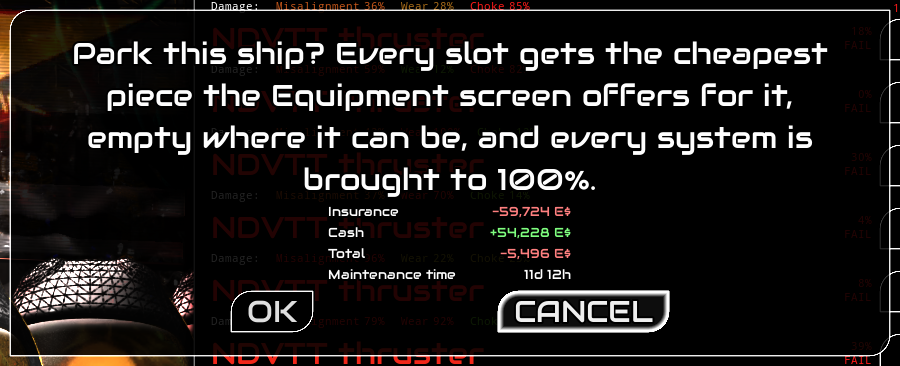
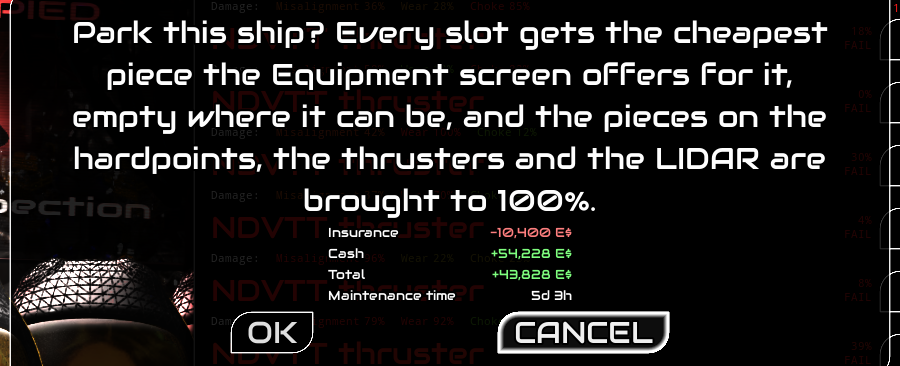
ShipRepairAdvisor 1.0.2: Park repairs only the pieces on the hardpoints, the thrusters and the LIDAR (the members of the Equipment screen's slots, _sraSlotMembers), whose condition sets what a swap trades them in for, and leaves every other system as it is: the other slots (reactor, turbine, MPU, ..

diff --git a/ShipRepairAdvisor/README.md b/ShipRepairAdvisor/README.md
@@ -2,9 +2,9 @@
 
 Adds two buttons to the bottom of the Repairs screen. **Repair** brings every damaged system of the ship up to the
 condition you set, the cheapest way, with a table beside it of what that costs and how long it takes. **Park** readies
-the ship to hold cash: every slot of the Equipment screen gets its cheapest piece, empty where it can be, and every
-system is brought to full condition, after a confirmation of what that costs or brings. Shift+Click on Repair opens its
-settings.
+the ship to hold cash: every slot of the Equipment screen gets its cheapest piece, empty where it can be, and the pieces
+on the hardpoints, the thrusters and the LIDAR are brought to full condition, after a confirmation of what that costs
+or brings. Shift+Click on Repair opens its settings.
 
 ## What it does and why
 - **What:** a row at the bottom of the Repairs screen, under the list of systems: on the right the Repair and Park
@@ -17,7 +17,10 @@ settings.
   be Fixes alone, or some Fixes and then Replace, and the Fixes may stop working before the target (the crew's Repair
   limit, damage beyond repair). And getting a ship ready to hold cash (buying expensive equipment for a ship that stays
   at the station, to sell it back later at its full price) means taking every slot down to its cheapest piece at the
-  Equipment screen and then bringing every system to full condition, since a damaged piece trades in for less.
+  Equipment screen and then bringing the pieces on the hardpoints, the thrusters and the LIDAR to full condition, since
+  a damaged one trades in for less. The other systems are left as they are: the other slots trade in at full price
+  whatever their condition, and the systems on no slot are never traded in, so repairing them would only spend the cash
+  the ship is readied to hold.
 - **Only the game's own buttons.** Both buttons do only what a player can do by hand, faster: they press the Repairs
   screen's own Fix and Replace, and Park also the Equipment screen's own Buy, each only while the game has it enabled.
   So every price, maintenance hour, payment (Fix and Replace from the insurance first, purchases from the cash), Logs
@@ -45,15 +48,18 @@ settings.
      A slot with no piece fitted is left alone. Where the cheapest piece is already fitted but worn at 99.5 % or more,
      short of full condition, which neither Fix nor Replace touches (GAME.md *Repairs*), the slot is bought out and
      back: another piece, then the cheapest again, new.
-  3. **Repairs** to `_SRA_PARK_TARGET` (in `Code.gd`) of every system still below it, as Repair's plan with that
-     target, keeping only ways that get there. The systems of the other slots (the reactor, the turbine, the MPU, …)
-     keep their damage through a purchase, so they are repaired afterwards, at the new piece's prices.
+  3. **Repairs** to `_SRA_PARK_TARGET` (in `Code.gd`) of every piece on a hardpoint, a thruster or the LIDAR still
+     below it, as Repair's plan with that target, keeping only ways that get there. The other systems keep their
+     damage: the other slots (the reactor, the turbine, the MPU, …) trade in at the fitted piece's full price whatever
+     its condition, and keep their damage through a purchase, and the systems on no slot (the HUD, the cabin light, …)
+     are never traded in.
 
   Parking is all or nothing: if the money would fall short at a step the game only allows with the money for it (a
   purchase that costs, a Replace that needs money), the confirmation says how much more is needed, and its OK is
-  disabled. A system that no button can bring to that condition (one on another slot, worn at 99.5 % or more) is named
-  in the confirmation; OK stays enabled, since nothing better can be done by hand. Park is disabled while there is
-  nothing to do, while either button works, and without the Equipment screen.
+  disabled. A piece on a hardpoint, a thruster or the LIDAR that no button can bring to that condition (worn at 99.5 %
+  or more where no other piece can be bought out and back) is named in the confirmation; OK stays enabled, since
+  nothing better can be done by hand. Park is disabled while there is nothing to do, while either button works, and
+  without the Equipment screen.
 - **The confirmation**, in the style of the game's dialogs: the question, then *Insurance*, *Cash* and *Total*, signed
   and coloured as the Fleet screen writes a trade-in (money coming in with a + in its green, going out with a - in its
   red), and the *Maintenance time*; under them, the notes. The figures are worked out on a copy of the ship as the
@@ -111,9 +117,10 @@ settings.
   `reexamine` shows) and the piece fitted. A slot's members are the systems whose script names the slot as its `type`
   (`_sraMembers`: `WeaponSlot.gd`, `ThrusterSlot.gd`, `LIDAR.gd`): the Equipment screen prices them by condition
   (`ship-ctrl.gd` `getSlotValue`) and the purchase clears their damage (`clearDamageInSlot`); the other slots trade in
-  at the fitted item's price and keep their system's damage (GAME.md *Equipment*). Replace and Fix stop at
+  at the fitted item's price and keep their system's damage (GAME.md *Equipment*). So Park repairs only the members of
+  the screen's slots (`_sraSlotMembers`), and leaves every other system as it is. Replace and Fix stop at
   `_SRA_REPLACE_BELOW` (the game's 99.5 %: `isReplaceable`, and `CurrentGame.getRepairLimit`'s cap), so a member worn
-  above it makes its slot an out-and-back (`_sraWornPast`), and another system there is unreachable.
+  above it makes its slot an out-and-back (`_sraWornPast`), or, with no other piece offered, is unreachable.
 - **The purchases** (`_sraParkPurchases`): the item's own `_on_Buy_pressed`, only while its `buttonBuy` is enabled.
   `Upgrades.gd` `buy` fits the piece and builds the player's ship again; Park waits for `CurrentGame`'s
   `playerShipChanged` (counted in `_sraShipChanges`, up to `_SRA_SHIP_WAIT_FRAMES` physics frames), and the rows are
@@ -123,9 +130,9 @@ settings.
   `Shipyard.createShipByConfig` from a copy of the player's config with every slot bought for on the piece it gets and
   its members' damage cleared, in a viewport of its own world on the screen (`_SRA_TRIAL_NODE`, `_SRA_TRIAL_SIZE`,
   never drawn), set up as ShipSaleAdvisor's trial ships are (a dummy, reactor off, in a cutscene; up to
-  `_SRA_TRIAL_FRAMES` frames), then freed (`_sraTrialDone`). From it: the repairs of the systems that keep their damage
-  (priced and judged by a copy of a row's script, out of the tree, told the trial ship), the systems no button
-  reaches, and each out-and-back's second purchase (the cheapest piece's price less what the other piece's systems are
+  `_SRA_TRIAL_FRAMES` frames), then freed (`_sraTrialDone`). From it: the repairs of the members whose slot isn't
+  bought for (priced and judged by a copy of a row's script, out of the tree, told the trial ship), the members no
+  button reaches, and each out-and-back's second purchase (the cheapest piece's price less what the other piece's systems are
   worth new). Park ignores further presses meanwhile (`_sraParkChecking`).
 - **The dialog** (`ParkDialog.gd`), made on first use as a child of the screen, so it takes the station's menu theme: a
   `ConfirmationDialog` as the game's (no title, `popup_centered`, the game's `OK` and `CANCEL`, Cancel focused). The

diff --git a/_tests/README.md b/_tests/README.md
@@ -907,7 +907,7 @@ WeaponMaxPowerSwitch.
   end below zero, and back; a second run reaching the higher target. With a gamepad: the twin (`PAD_BUTTON` while
   `PAD_MODIFIER` is held, from `Badge.gd`) on the highlighted Repair opens the settings, and B closes them with Repair
   highlighted again. Park, on `harness/repairs_park_ship.gd` (a ship built from its config, as the game's, its
-  hardpoint's and thrusters' members with a `type` (`harness/repairs_slot_part.gd`, as the game's), and systems on
+  hardpoint's, thrusters' and LIDAR's members with a `type` (`harness/repairs_slot_part.gd`, as the game's), and systems on
   slots without members; its damage kept in the config by system key; also the trial ship's scene in the `Shipyard`
   stub; RCS_B's systems worth less than its price), beside a stub of the Equipment screen (`harness/repairs_equipment.gd`:
   the game's `updatePricesAndAvailability` and `buy`, building the ship again as the station does and recording each
@@ -916,21 +916,24 @@ WeaponMaxPowerSwitch.
   named by the mod's text, enabled, right of Repair at its height, the badge in Repair, Park as far from the panel's
   frame at the bottom as at the right; the D-pad up from Park to the last row's Replace, right from Repair to Park and
   left back. The confirmation (a laser at 60 % on the hardpoint, RCS_A thrusters with one at 99.7 %, the dearer
-  reactor at 70 %, a HUD at 99.7 % on a slot without members, the cabin at 80 % on no slot, an ammo capacity bought):
+  reactor at 70 %, a HUD at 99.7 % on a slot without members, the cabin at 80 % on no slot, a LIDAR at 99.7 %, the only
+  piece its slot offers, an ammo capacity bought):
   no title, the game's OK and CANCEL, Cancel highlighted; the question with Park's target; the lines' names without
   "cost"; the insurance going out with - and the cash and the total coming in with +, in the Fleet screen's colours;
   the maintenance time in the normal colour; the trial ship given the pieces bought (the other thrusters for the
-  out-and-back) and the members without damage, the rest kept, then gone, the ship and the state untouched; the HUD
-  named, at its condition rounded down to the mod's decimals; OK enabled; the dialog on the screen. Esc (a real key
+  out-and-back) and the members without damage, the rest kept, then gone, the ship and the state untouched; the LIDAR
+  named, at its condition rounded down to the mod's decimals, and not the HUD, which isn't a member; OK enabled; the dialog on the screen. Esc (a real key
   press, with the game's bindings) closes the confirmation only, Park highlighted again, nothing changed; B closes it
   too. OK: both buttons disabled while it works; the hardpoint emptied, the cheapest reactor and ammo capacity, the
   thrusters out and back (the second purchase refunding what the other thrusters' systems are worth), the refunds
-  first, the laser fixed once before its trade-in, the slot not shown left alone; every other system at Park's
-  target, the HUD as it was; the cash, the insurance and the maintenance as the confirmation said; the rows made for the
-  new ship; Park disabled with nothing left to do, and highlighted. Again with a gun at 50 % and the cash below zero: the
-  note of the money missing and OK disabled; Cancel changing nothing; with the money, no insurance spent shown without
-  a sign or colour, the cash and time, then the cash and maintenance as it said, the gun traded in after two Fixes, the
-  cabin at Park's target. The screen hiding closes the confirmation; without the Equipment screen, Park disabled. The
+  first, the laser fixed once before its trade-in, the slot not shown left alone; the thrusters at Park's target, the
+  reactor, the HUD, the cabin and the LIDAR as they were (Park repairs only the slots' members); the cash, the
+  insurance and the maintenance as the confirmation said; the rows made for the new ship; Park disabled with nothing
+  left to do, and highlighted. Again with a gun at 50 %, a thruster and the cabin at 75 % and the cash below zero: the
+  note of the money missing (for the thruster's Replace) and OK disabled; Cancel changing nothing; with the money, no
+  insurance spent shown without a sign or colour, the cash and time, then the cash and maintenance as it said, the gun
+  traded in after two Fixes, the thruster replaced to Park's target, the cabin as it was. The screen hiding closes the
+  confirmation; without the Equipment screen, Park disabled. The
   control checks (the game's rows, nothing of the mod at the bottom of the screen, the list's margin as the scene sets
   it) run on the game's own script.
 - `callout` (`suites/callout.gd`): HUDs from `harness/callout_hud.tscn` (the game's `Hud.gd`, its `dialogLineNode` the

diff --git a/_wiki/ShipRepairAdvisor.md b/_wiki/ShipRepairAdvisor.md
@@ -33,17 +33,22 @@ Fix clicks can. Repair is greyed out when there is nothing to repair.
 ### Park
 
 **Park** gets a ship ready to hold your cash. Buying expensive equipment for a ship that stays at the station keeps your
-money safe, and the Equipment screen gives it all back when you swap a part for another, but only for a part in full
-condition. So before you use a ship that way, Park:
+money safe, and the Equipment screen gives it back when you swap a part for another. For a part on a hardpoint (the
+mounts for weapons, the arm and other equipment), a thruster or the LIDAR, it gives back what the part is worth, so all
+of it only for a part in full condition. So before you use a ship that way, Park:
 
 1. Fixes the damaged parts it is about to swap, where a Fix click adds more to what they are worth than it costs.
 2. Swaps every part for the cheapest one the Equipment screen offers for it, or takes it off where the screen lets you
    leave the slot empty. The swaps that give money back come first.
-3. Brings every part to 100 %. A swap gives a weapon, a thruster or the LIDAR a new part, but the other parts (the
-   reactor, the turbine, the cargo processing unit, …) keep their damage, so they are repaired afterwards.
+3. Brings the parts on the hardpoints, the thrusters and the LIDAR to 100 %. A swap gives them a new part, and the ones
+   it keeps are repaired.
 
-The Repairs screen never fixes or replaces a part at 99.5 % or more. Park still brings a weapon, a thruster or the LIDAR
-from there to 100 %, by swapping it for another part and back.
+Park leaves every other part as it is (the reactor, the turbine, the cargo processing unit, the HUD, …): the Equipment
+screen gives them back at their full price whatever their condition, or never swaps them, so repairing them would only
+spend the cash you want to keep.
+
+The Repairs screen never fixes or replaces a part at 99.5 % or more. Park still brings a part on a hardpoint, a thruster
+or the LIDAR from there to 100 %, by swapping it for another part and back.
 
 Park first asks you to confirm:
 
@@ -54,8 +59,8 @@ Park first asks you to confirm:
 - **Maintenance time**: how long the swaps and repairs keep the ship at the station.
 - If you don't have enough money for every step, a line says how much more you need, and OK is greyed out: Park does
   everything or nothing.
-- If a part can't be brought to 100 % by any button of the game (one other than a weapon, a thruster or the LIDAR, at
-  99.5 % or more), a line names it. OK still works, and Park does all the rest.
+- If a part on a hardpoint, a thruster or the LIDAR can't be brought to 100 % by any button of the game (at 99.5 % or
+  more, with no other part to swap it for and back), a line names it. OK still works, and Park does all the rest.
 
 CANCEL, or Esc, closes the question and leaves the Repairs screen open.
 
@@ -98,7 +103,7 @@ ShipRepairAdvisor/i18n/en.po SHIPREPAIRADVISOR_CASH_COST = "Cash cost" | images/
 ShipRepairAdvisor/i18n/en.po SHIPREPAIRADVISOR_TOTAL_COST = "Total cost" | images/ShipRepairAdvisor-repairs-with.png
 ShipRepairAdvisor/i18n/en.po SHIPREPAIRADVISOR_TIME = "Maintenance time" | images/ShipRepairAdvisor-repairs-with.png, images/ShipRepairAdvisor-park.png
 ShipRepairAdvisor/i18n/en.po SHIPREPAIRADVISOR_MONEY = "%s E$" | images/ShipRepairAdvisor-repairs-with.png
-ShipRepairAdvisor/i18n/en.po SHIPREPAIRADVISOR_PARK_CONFIRM = "Park this ship? Every slot gets the cheapest piece the Equipment screen offers for it, empty where it can be, and every system is brought to %s." | images/ShipRepairAdvisor-park.png
+ShipRepairAdvisor/i18n/en.po SHIPREPAIRADVISOR_PARK_CONFIRM = "Park this ship? Every slot gets the cheapest piece the Equipment screen offers for it, empty where it can be, and the pieces on the hardpoints, the thrusters and the LIDAR are brought to %s." | images/ShipRepairAdvisor-park.png
 ShipRepairAdvisor/i18n/en.po SHIPREPAIRADVISOR_INSURANCE = "Insurance" | images/ShipRepairAdvisor-park.png
 ShipRepairAdvisor/i18n/en.po SHIPREPAIRADVISOR_CASH = "Cash" | images/ShipRepairAdvisor-park.png
 ShipRepairAdvisor/i18n/en.po SHIPREPAIRADVISOR_TOTAL = "Total" | images/ShipRepairAdvisor-park.png

diff --git a/README.md b/README.md
@@ -32,7 +32,7 @@ in its folder, has the details for modders.
 | [ServiceNotifier](../../wiki/ServiceNotifier) | Marks the Services entry of the Enceladus Prime menu when a service you pick can be bought again: one with a cooldown, such as The Twins or Jameson's Insurance, or a compensation to a faction. You pick the services with Shift+Click on Services. |
 | [ShipCopyPaste](../../wiki/ShipCopyPaste) | On the Fleet screen, copies another ship's setup onto the ship you fly when both are the same model, in the parts you choose: its settings (the tuning and the mineral targeting), its crew aboard, and its equipment, bought at the Equipment screen's prices. |
 | [ShipHighlightTypeAndPrice](../../wiki/ShipHighlightTypeAndPrice) | Makes the type of every ship in the Dealer and Fleet lists stand out, and hides the ship image behind each row. |
-| [ShipRepairAdvisor](../../wiki/ShipRepairAdvisor) | On the Repairs screen, a Repair button brings every damaged system up to the condition you set, the cheapest way, and a Park button readies a ship to hold cash: every slot on its cheapest piece, empty where it can be, and every system at full condition, after a confirmation of what that costs. Shift+Click on Repair opens its settings. |
+| [ShipRepairAdvisor](../../wiki/ShipRepairAdvisor) | On the Repairs screen, a Repair button brings every damaged system up to the condition you set, the cheapest way, and a Park button readies a ship to hold cash: every slot on its cheapest piece, empty where it can be, and the pieces on the hardpoints, the thrusters and the LIDAR at full condition, after a confirmation of what that costs. Shift+Click on Repair opens its settings. |
 | [ShipSaleAdvisor](../../wiki/ShipSaleAdvisor) | On the Fleet screen, a ship's sell button offers to prepare the ship first when that brings more cash: its equipment taken down to the cheapest the Equipment screen offers, and fixed click by click where a fix adds more than it costs. Shift+Click on the sell button opens its settings. |
 | [ShipSortByTypeAndPrice](../../wiki/ShipSortByTypeAndPrice) | Sorts the ship list on the Dealer screen by type, then by price (cheapest first). |
 | [TransponderAltCodes](../../wiki/TransponderAltCodes) | New transponder codes say what carries them: a ship's series and model, and whether it is a ship's lifepod, its drones, an AI core or frozen crew. |

diff --git a/ShipRepairAdvisor/CHANGES.md b/ShipRepairAdvisor/CHANGES.md
@@ -1,5 +1,14 @@
 # ShipRepairAdvisor - Changes
 
+## 1.0.2
+- Park repairs only the pieces on the hardpoints, the thrusters and the LIDAR, whose condition sets what they trade in
+  for at the Equipment screen. It leaves every other system as it is: the other slots (the reactor, the turbine, the
+  MPU, …) trade in at full price whatever their condition, and the systems on no slot (the HUD, the cabin light, …)
+  are never traded in, so repairing them only spent the cash the ship is readied to hold. Its confirmation's question
+  says so, and its note names only those pieces when no button brings them to `_SRA_PARK_TARGET`.
+- `Code.gd`: new function `_sraSlotMembers`; `_sraParkInfo` keeps the screen's slots in `pieceSlots`.
+- README: Park's summary, *Why*, third step and notes, and *For modders*.
+
 ## 1.0.1
 - Licensed under the MIT License instead of the GNU GPLv3: the LICENSE in the zip and the README's *About* and
   *Disclaimer* say so.
